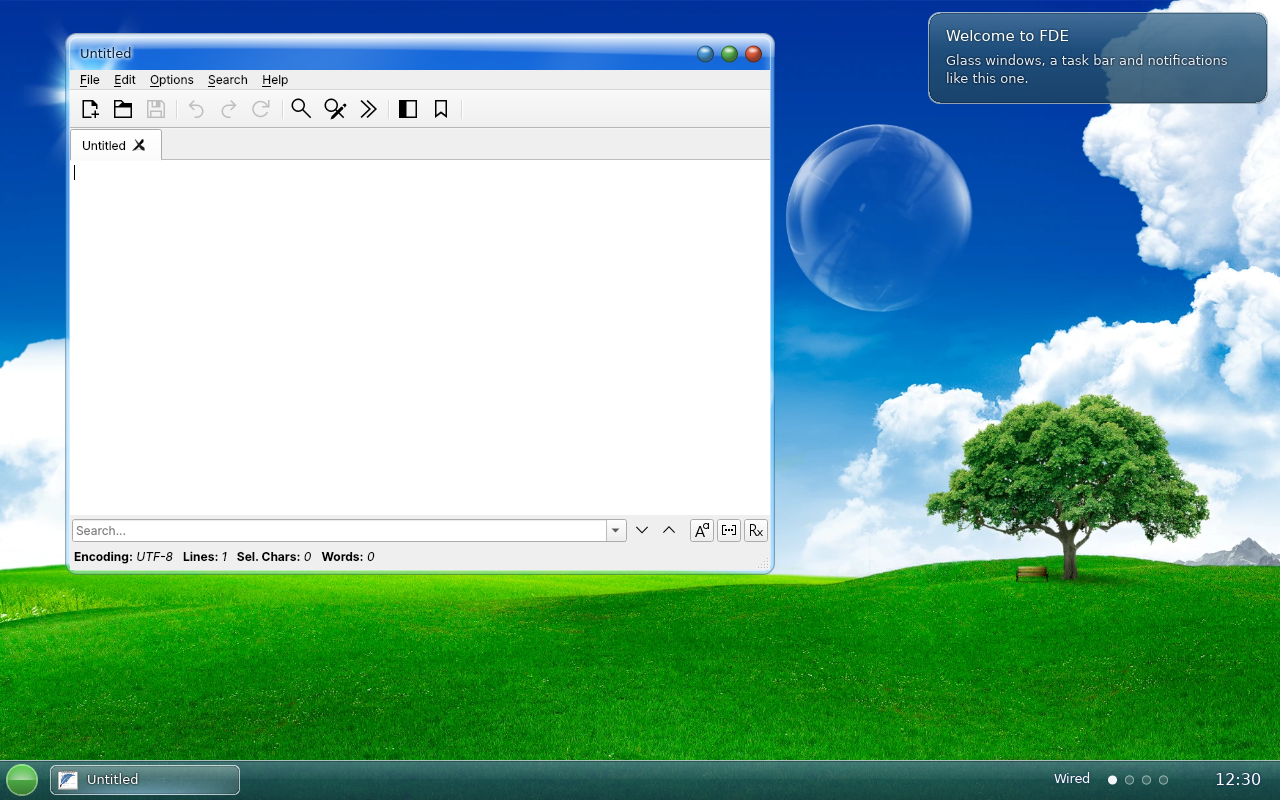
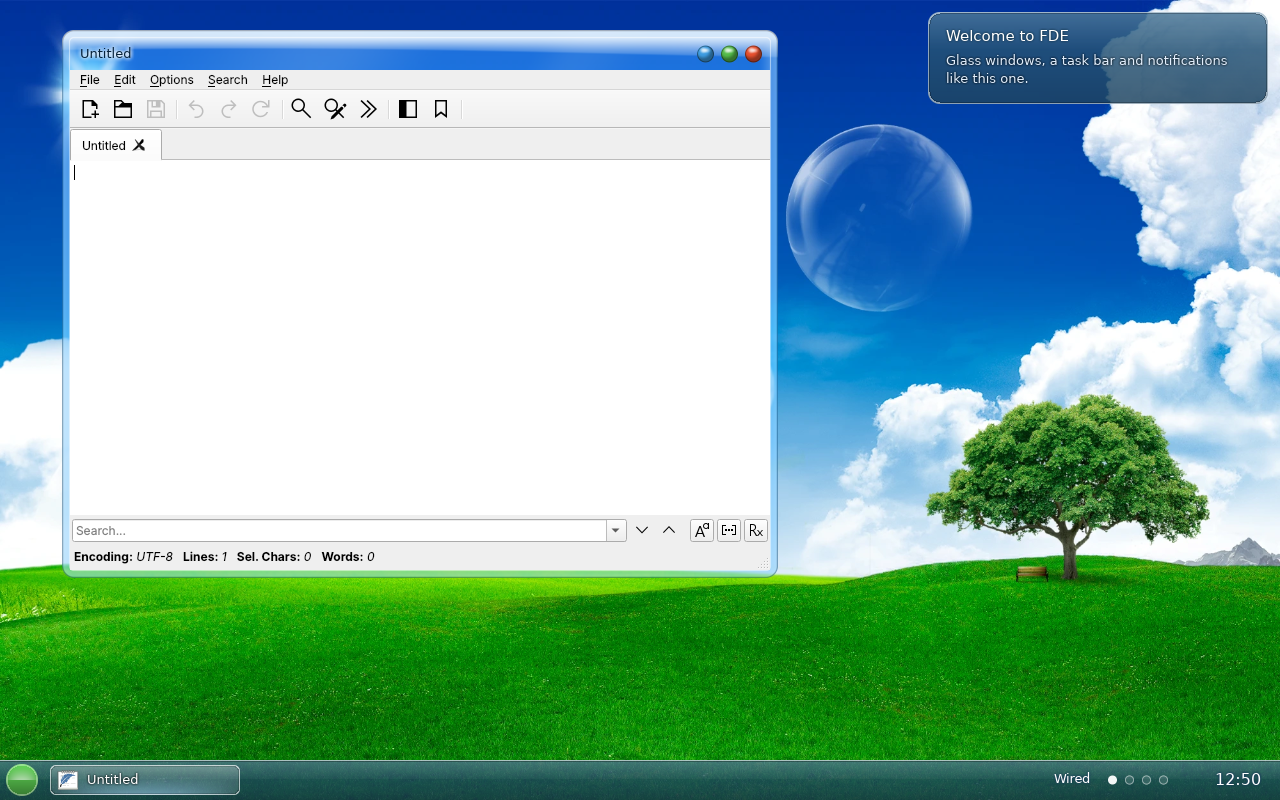
Windows look more like glass: a thicker frame, a deeper shadow, colour on unfocused buttons
- Frame 5 -> 8 px (the Aero look: a visible band of blurred, tinted glass around the window),
  tint a little stronger so title bars of different windows look alike
- Drop shadow stronger and lower, so windows float above the wallpaper
- Unfocused windows' orbs were mixed completely to grey (a bug in the shader: 1 - focus * 0.85
  is 1 at focus 0); they are now only slightly dimmed
- Screenshots retaken

Claude-Session: https://claude.ai/code/session_01AksNTTEEpWACMAbBincPJS

diff --git a/src/glass/mod.rs b/src/glass/mod.rs
@@ -73,7 +73,7 @@ impl Default for GlassStyle {
     fn default() -> Self {
         GlassStyle {
             radius: 12.0,
-            border: 5.0,
+            border: 8.0,
             titlebar: 32.0,
             tint_frame: [0.29, 0.66, 0.93, 0.38],
             tint_client: [0.85, 0.93, 1.0, 0.10],
@@ -201,9 +201,9 @@ impl Glass {
                 Uniform::new("size", (area.size.w as f32, area.size.h as f32)),
                 Uniform::new("spread", spread as f32),
                 Uniform::new("radius", style.radius.max(style.radius_bottom)),
-                Uniform::new("shift_y", 7.0 * scale),
-                Uniform::new("soft", 20.0 * scale),
-                Uniform::new("strength", (0.22 + 0.22 * style.focus) * style.shadow),
+                Uniform::new("shift_y", 10.0 * scale),
+                Uniform::new("soft", 22.0 * scale),
+                Uniform::new("strength", (0.34 + 0.30 * style.focus) * style.shadow),
             ],
         )
     }

diff --git a/src/glass/shaders.rs b/src/glass/shaders.rs
@@ -194,7 +194,7 @@ void main() {
                     float lit = clamp(1.0 - length(lp) * 0.85, 0.0, 1.0);
                     vec3 body = mix(c * 0.62, c, smoothstep(0.0, 0.55, lit));
                     body = mix(body, mix(c, vec3(1.0), 0.55), smoothstep(0.55, 1.0, lit));
-                    body = mix(body, vec3(0.5), 1.0 - focus * 0.85);   // dimmed when the window is not focused
+                    body = mix(body, vec3(0.5), (1.0 - focus) * 0.45);   // a little dimmed when the window is not focused
                     float glint = smoothstep(0.0, 1.0, 1.0 - length((o - vec2(0.0, -r * 0.42)) / vec2(r * 0.72, r * 0.42)));
                     body = mix(body, vec3(1.0), glint * 0.75 * (0.3 + 0.7 * reflections));
                     float orb_rim = smoothstep(1.2, 0.0, abs(od + 0.5));

diff --git a/tests/e2e.rs b/tests/e2e.rs
@@ -968,7 +968,7 @@ fn a_window_on_the_second_monitor_is_drawn_there_and_the_pointer_and_maximize_fo
     let g = hn.state.space.element_geometry(&win).unwrap();
     let area = hn.state.usable_area(&second);
     assert!(g.loc.x >= 800 && g.loc.x + g.size.w <= 1600, "inside the second monitor: {g:?}");
-    assert_eq!((g.loc.x, g.loc.y), (area.loc.x + 5, area.loc.y + 5 + 32), "at the top left of that monitor's usable area, inside its frame: {g:?} {area:?}");
+    assert_eq!((g.loc.x, g.loc.y), (area.loc.x + hn.state.style.border as i32, area.loc.y + (hn.state.style.border + hn.state.style.titlebar) as i32), "at the top left of that monitor's usable area, inside its frame: {g:?} {area:?}");
 }
 
 #[test]

diff --git a/tests/config.rs b/tests/config.rs
@@ -24,7 +24,7 @@ fn the_config_file_is_read_reloaded_and_a_bad_edit_is_ignored() {
     std::fs::write(&file, "[appearance]\naccent = \"#0000ff\"\nblur = 5\n[shell]\nterminal = \"alacritty\"\n[input]\nrepeat_rate = 40\n").unwrap();
     state.check_config(true);
     assert_eq!(state.style.tint_frame[..3], [0.0, 0.0, 1.0], "the accent follows");
-    assert_eq!(state.style.tint_frame[3], 0.38, "keys that are gone go back to their default");
+    assert_eq!(state.style.tint_frame[3], 0.46, "keys that are gone go back to their default");
     assert_eq!(state.style.blur_levels, 5);
     assert_eq!(state.terminal, "alacritty");
     assert_eq!(state.config.input.repeat_rate, 40);

diff --git a/src/config.rs b/src/config.rs
@@ -36,7 +36,7 @@ pub struct Appearance {
 
 impl Default for Appearance {
     fn default() -> Self {
-        Appearance { theme: "aero".into(), accent: "#4aa8ee".into(), transparency: 0.38, blur: 3, gloss: 0.8, animations: true, wobbly_windows: true, performance: "auto".into(), cursor_theme: String::new(), cursor_size: 0 }
+        Appearance { theme: "aero".into(), accent: "#4aa8ee".into(), transparency: 0.46, blur: 3, gloss: 0.8, animations: true, wobbly_windows: true, performance: "auto".into(), cursor_theme: String::new(), cursor_size: 0 }
     }
 }
 

diff --git a/src/theme.rs b/src/theme.rs
@@ -84,12 +84,12 @@ impl Default for Theme {
             name: "Frutiger Aero".into(),
             description: String::new(),
             accent: "#4aa8ee".into(),
-            transparency: 0.38,
+            transparency: 0.46,
             blur: 3,
             gloss: 0.8,
             radius: 12.0,
             radius_bottom: -1.0,
-            border: 5.0,
+            border: 8.0,
             titlebar: 32.0,
             client_tint: [0.85, 0.93, 1.0, 0.10],
             highlight: 0.9,

diff --git a/docs/SETTINGS.md b/docs/SETTINGS.md
@@ -13,7 +13,7 @@ the user file wins per key). One file, sectioned, with comments kept when the ap
 [appearance]
 theme = "aero"            # a theme directory: colours, gloss, orb colours, fonts
 accent = "#4aa8ee"
-transparency = 0.38       # glass tint strength
+transparency = 0.46       # glass tint strength
 blur = 3                  # blur levels (0 turns blur off: battery / weak GPUs)
 animations = true
 
